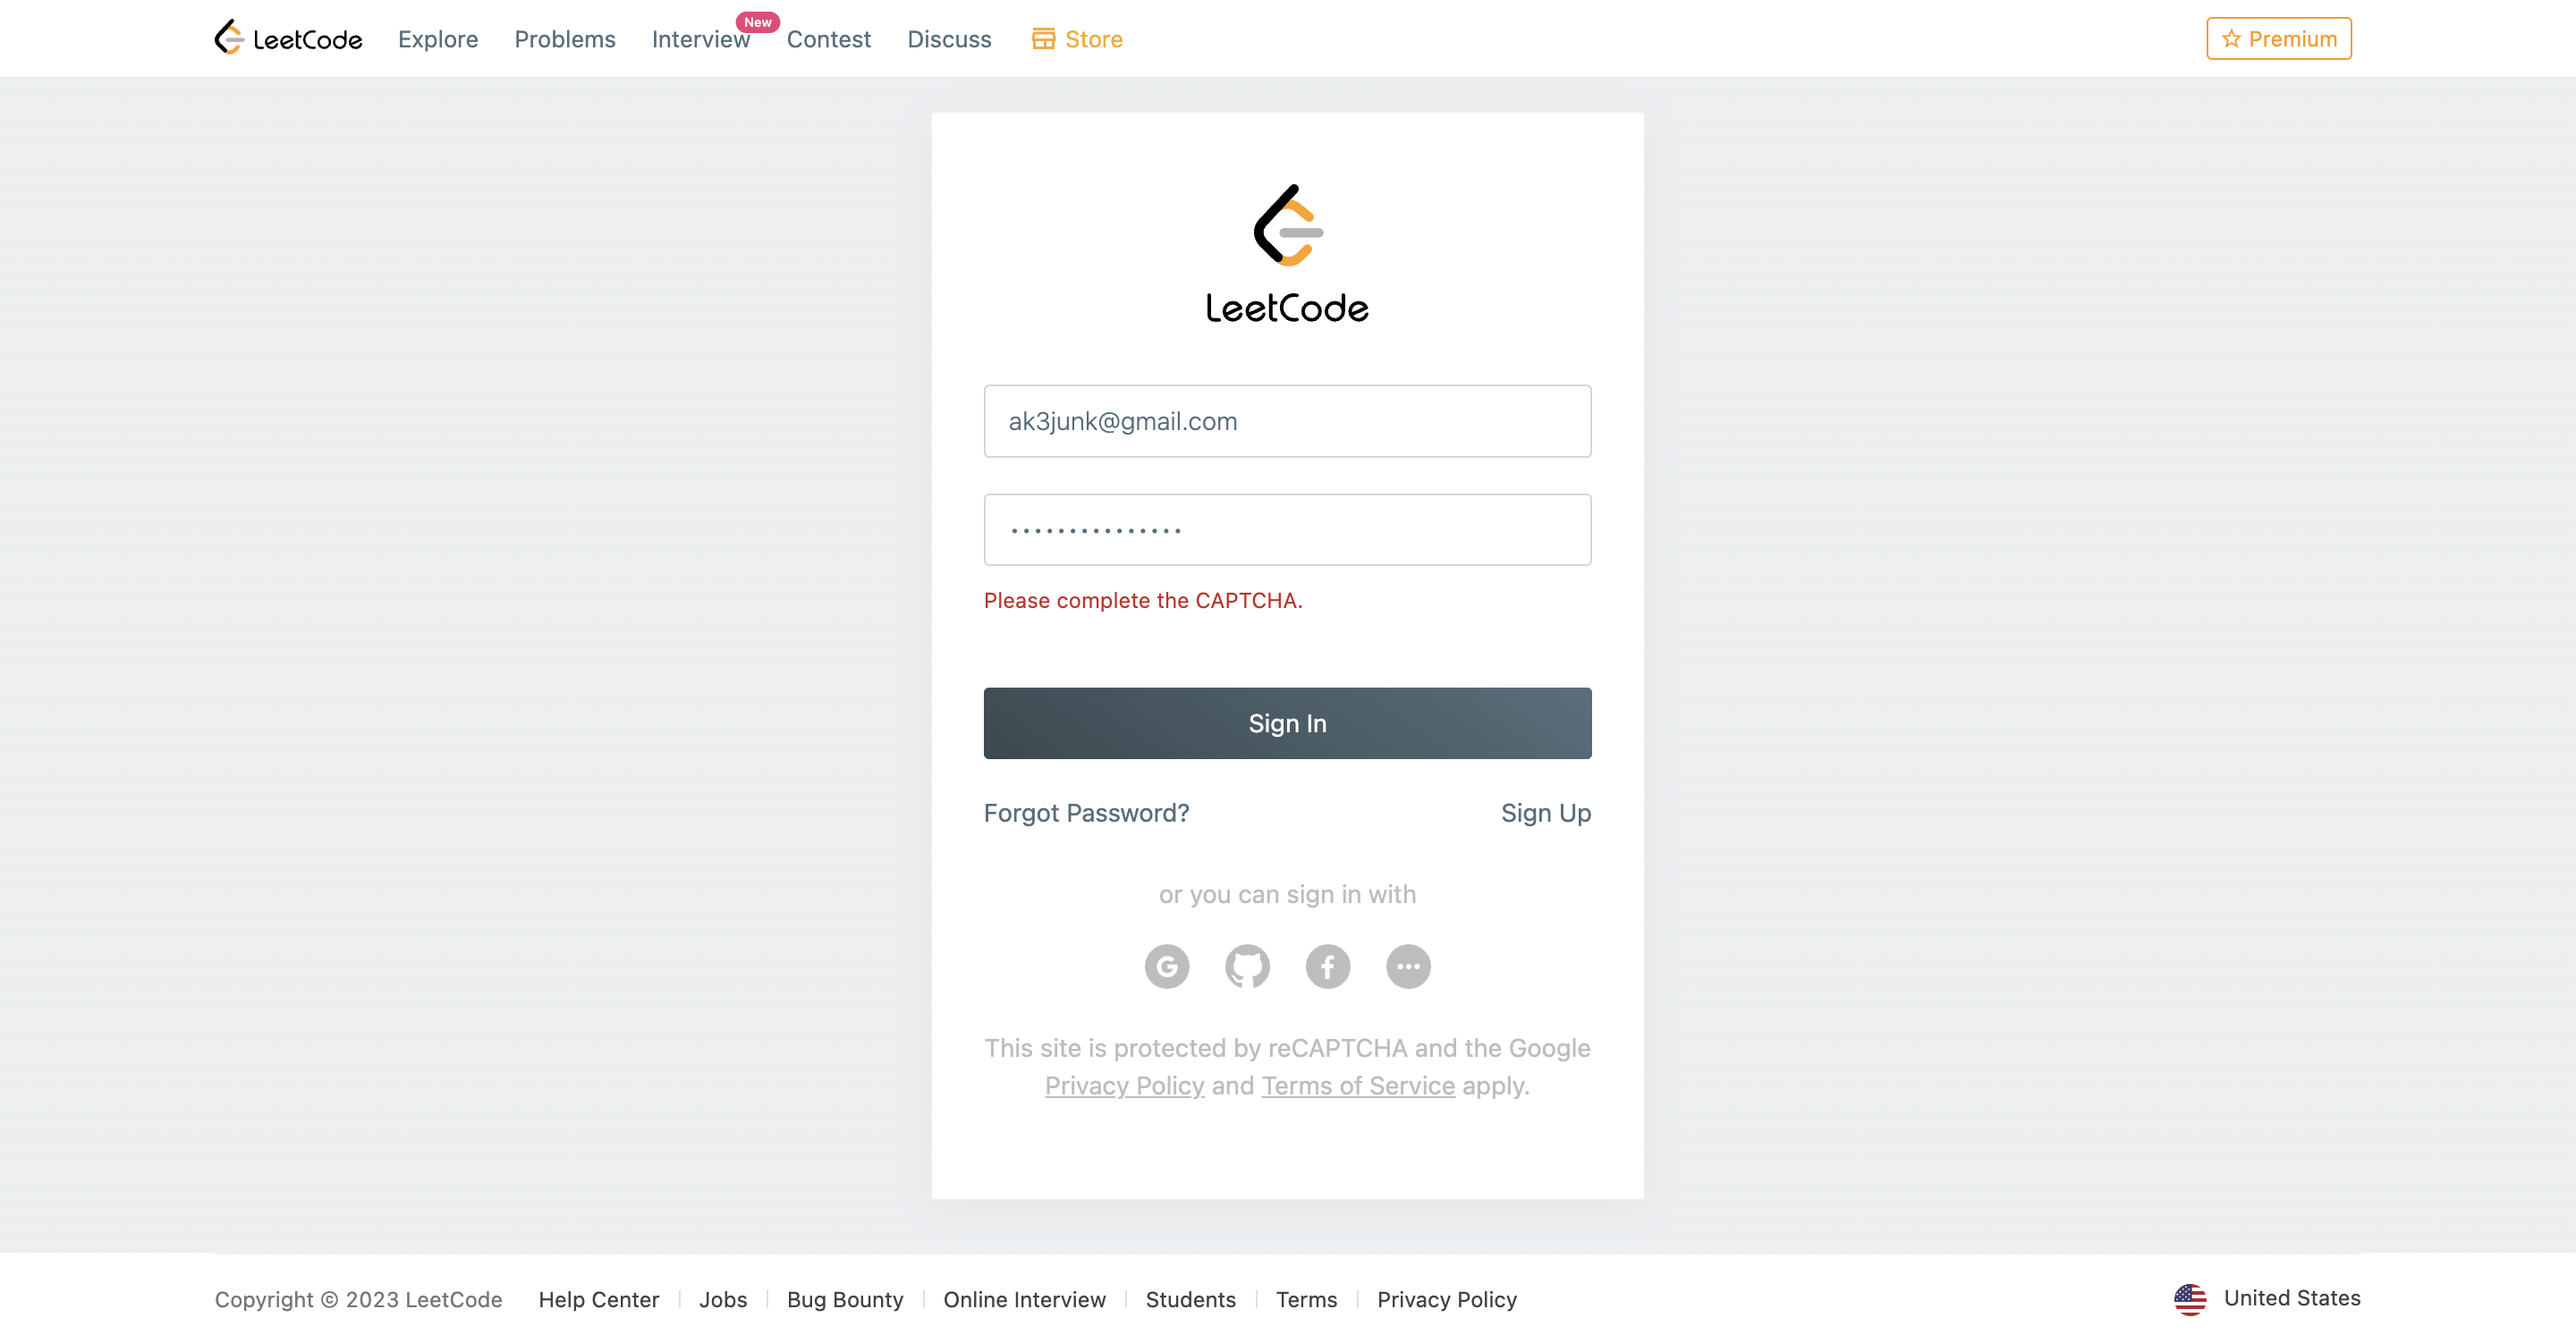
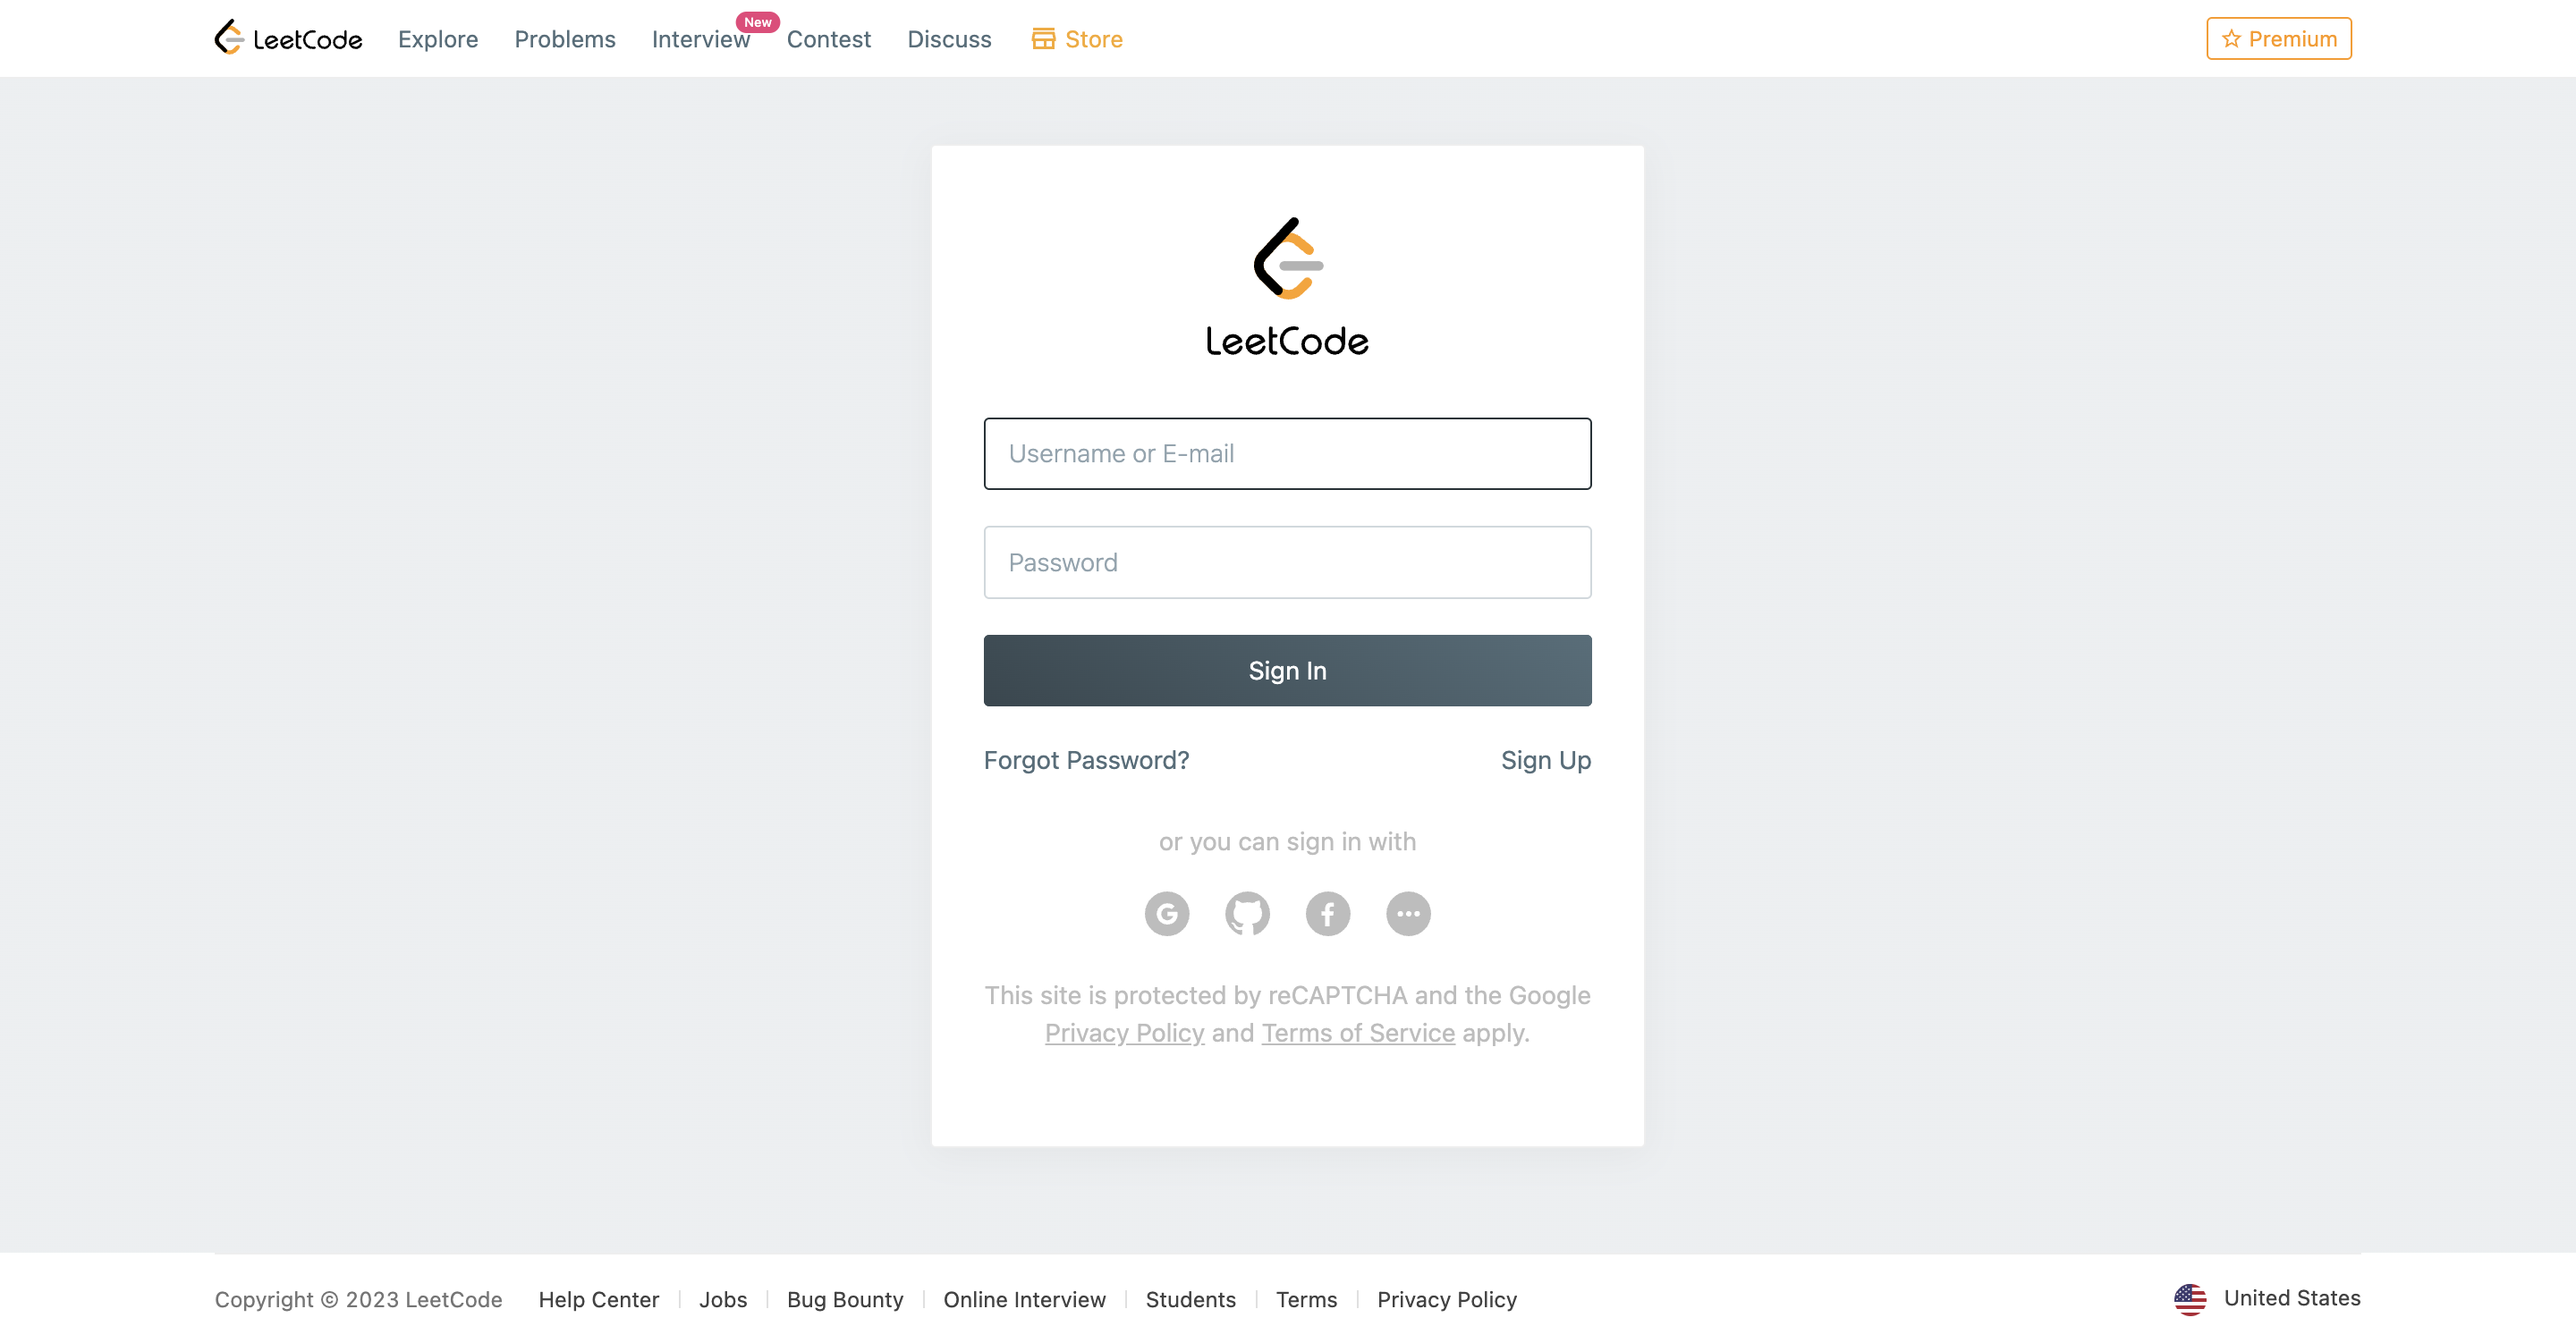
successfully logged into leetcode with cookies

Changed region(s): [[0.375, 0.3063, 0.625, 0.6125], [0.375, 0.6125, 0.625, 0.8269], [0.4688, 0.1531, 0.5312, 0.2756]]

diff --git a/runner.py b/runner.py
@@ -1,26 +1,33 @@
 from problem_solver import ProblemSolver
 import time
+from csv import DictReader
 
 def solveProblem(problem_link, filePath):
-    try:
-        problemSolver = ProblemSolver(problem_link, filePath)
-        problemSolver.login()
-        problemSolver.bypass_catpcha()
-        problemSolver.load_problem()
-        problemSolver.switch_to_python()
+    problemSolver = ProblemSolver(problem_link, filePath)
+    problemSolver.login_with_cookies()
+    problemSolver.load_problem()
+    problemSolver.switch_to_python()
 
-        problemSolver.parse_inputs()
-        problemSolver.setup_file()
+    problemSolver.parse_inputs()
+    problemSolver.setup_file()
+    problemSolver.add_testcase()
+    problemSolver.submit()
+
+    while (not problemSolver.isSolved()):
+        problemSolver.parse_testcase()
         problemSolver.add_testcase()
         problemSolver.submit()
 
-        while (not problemSolver.isSolved()):
-            problemSolver.parse_testcase()
-            problemSolver.add_testcase()
-            problemSolver.submit()
-    except:
-        problemSolver.screenshot("error.png")
-        time.sleep(100)
+def test():
+    filename = "leetcode_cookies.csv"
+    result = []
+    with open(filename, 'r') as file:
+        csv_reader = DictReader(file)
+        for row in csv_reader:
+            clean_row = {key.strip(): value.strip() for key, value in row.items() if key!=""}
+            result.append(clean_row)
+    print(result)
 
 if __name__ == "__main__":
+    # test()
     solveProblem("https://leetcode.com/problems/sudoku-solver/", "data/37. Sudoku Solver")

diff --git a/problem_solver.py b/problem_solver.py
@@ -11,6 +11,7 @@ from auth import LeetcodeLogin
 from locators import SingleProblemPage
 from locators import ResultConsole
 from locators import LoginPage
+from csv import DictReader
 
 from selenium_base import SeleniumBase
 
@@ -35,7 +36,28 @@ class ProblemSolver(SeleniumBase):
         self.send_keys(self.get_by_id(LoginPage.PASSWORD_BTN_ID), LeetcodeLogin.pswd)
         self.click(self.get_by_id(LoginPage.SIGN_IN_BUTTON_ID))
 
-    def bypass_catpcha(self):
+    def login_with_cookies(self):
+        self.driver.get(LoginPage.URL)
+        self.wait.until(EC.title_is(LoginPage.TITLE))
+        self.wait.until_not(EC.presence_of_element_located((By.ID, LoginPage.LOADING_SCREEN_ID)))
+        print("loaded")
+
+        filename = "leetcode_cookies.csv"
+        cookies = []
+        with open(filename, 'r') as file:
+            csv_reader = DictReader(file)
+            for row in csv_reader:
+                clean_row = {key.strip(): value.strip() for key, value in row.items() if key!=""}
+                cookies.append(clean_row)
+        
+        for i in cookies:
+            self.driver.add_cookie(i)
+
+        print("cookies added")
+        
+        self.driver.refresh()
+        print("refreshed")
+
         self.wait.until_not(EC.title_is(LoginPage.TITLE))
 
     def load_problem(self, firstTime = True):
